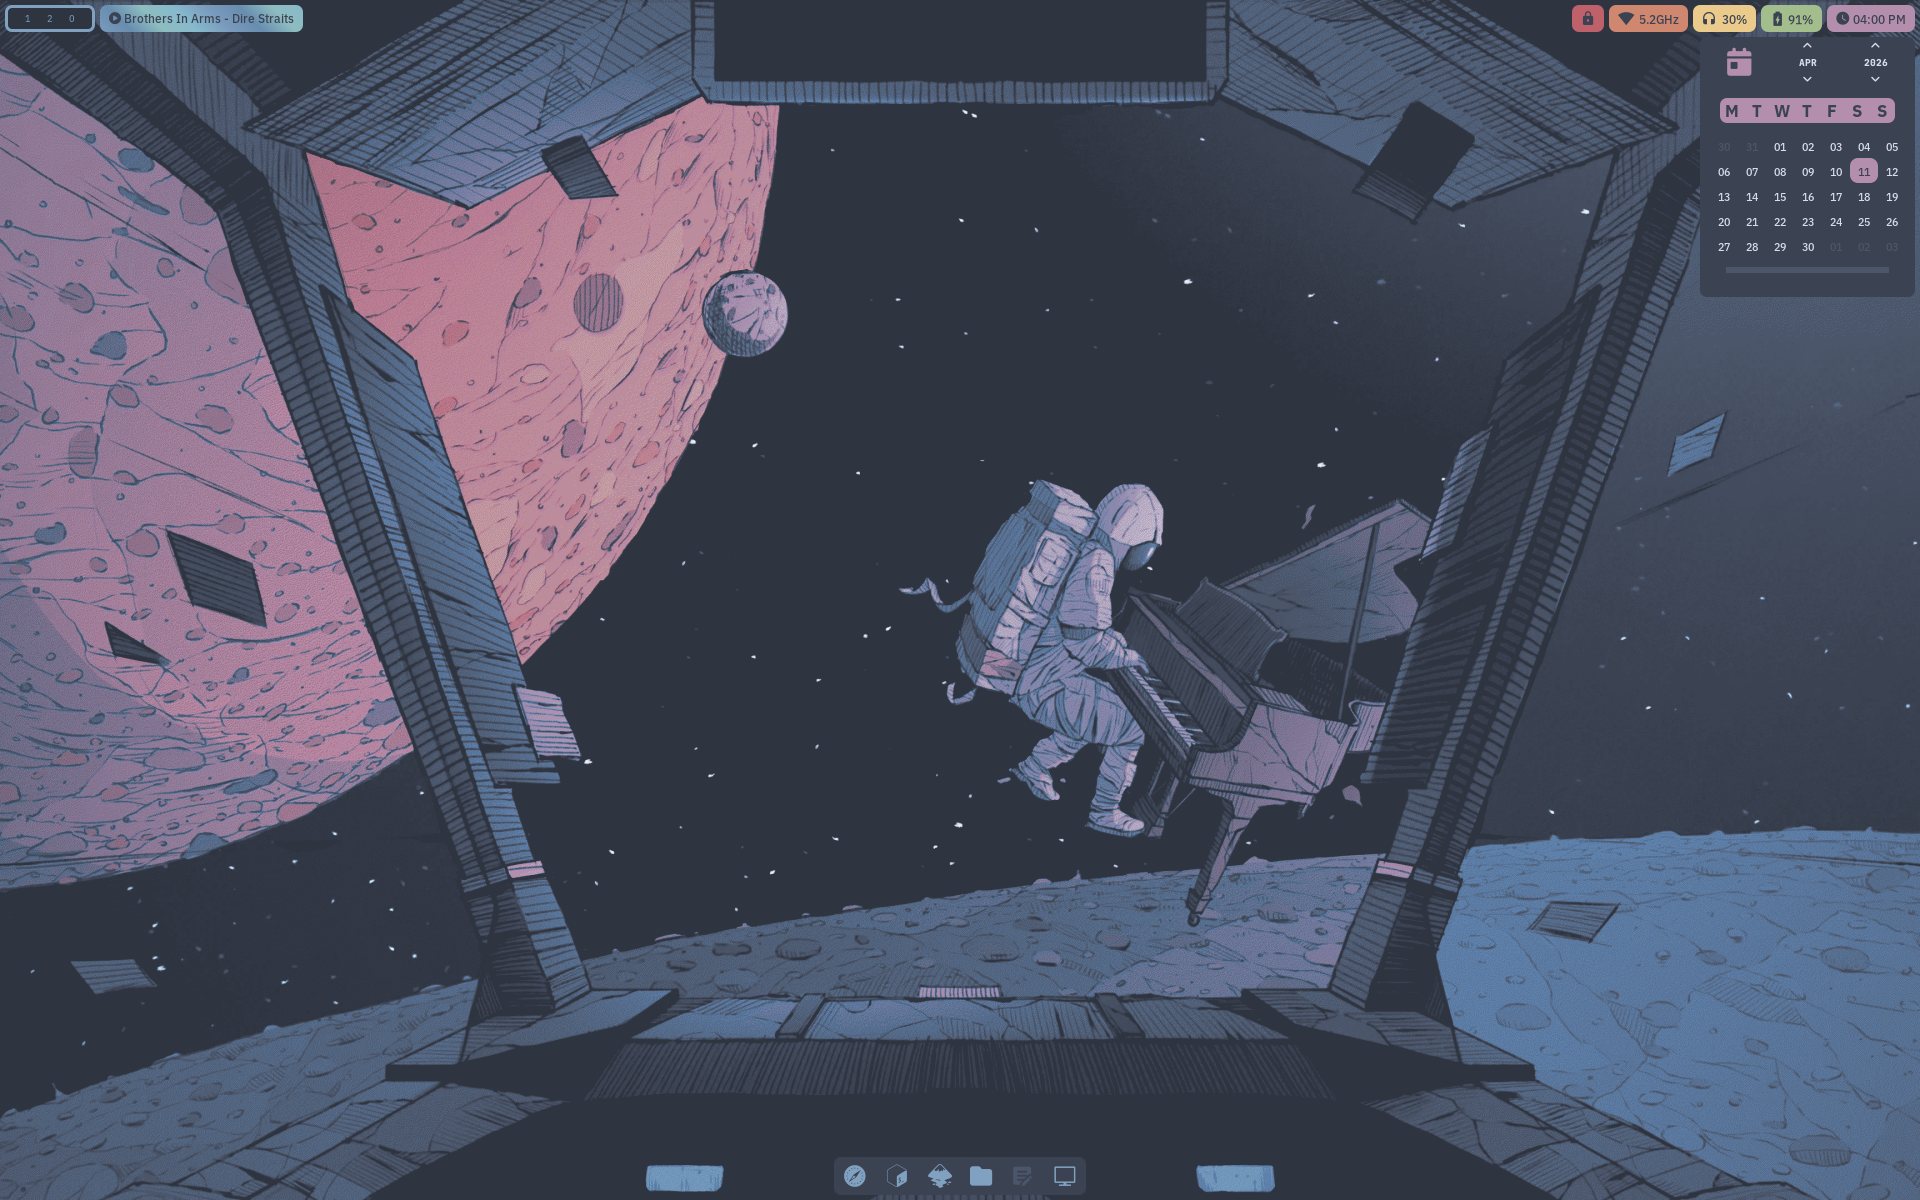
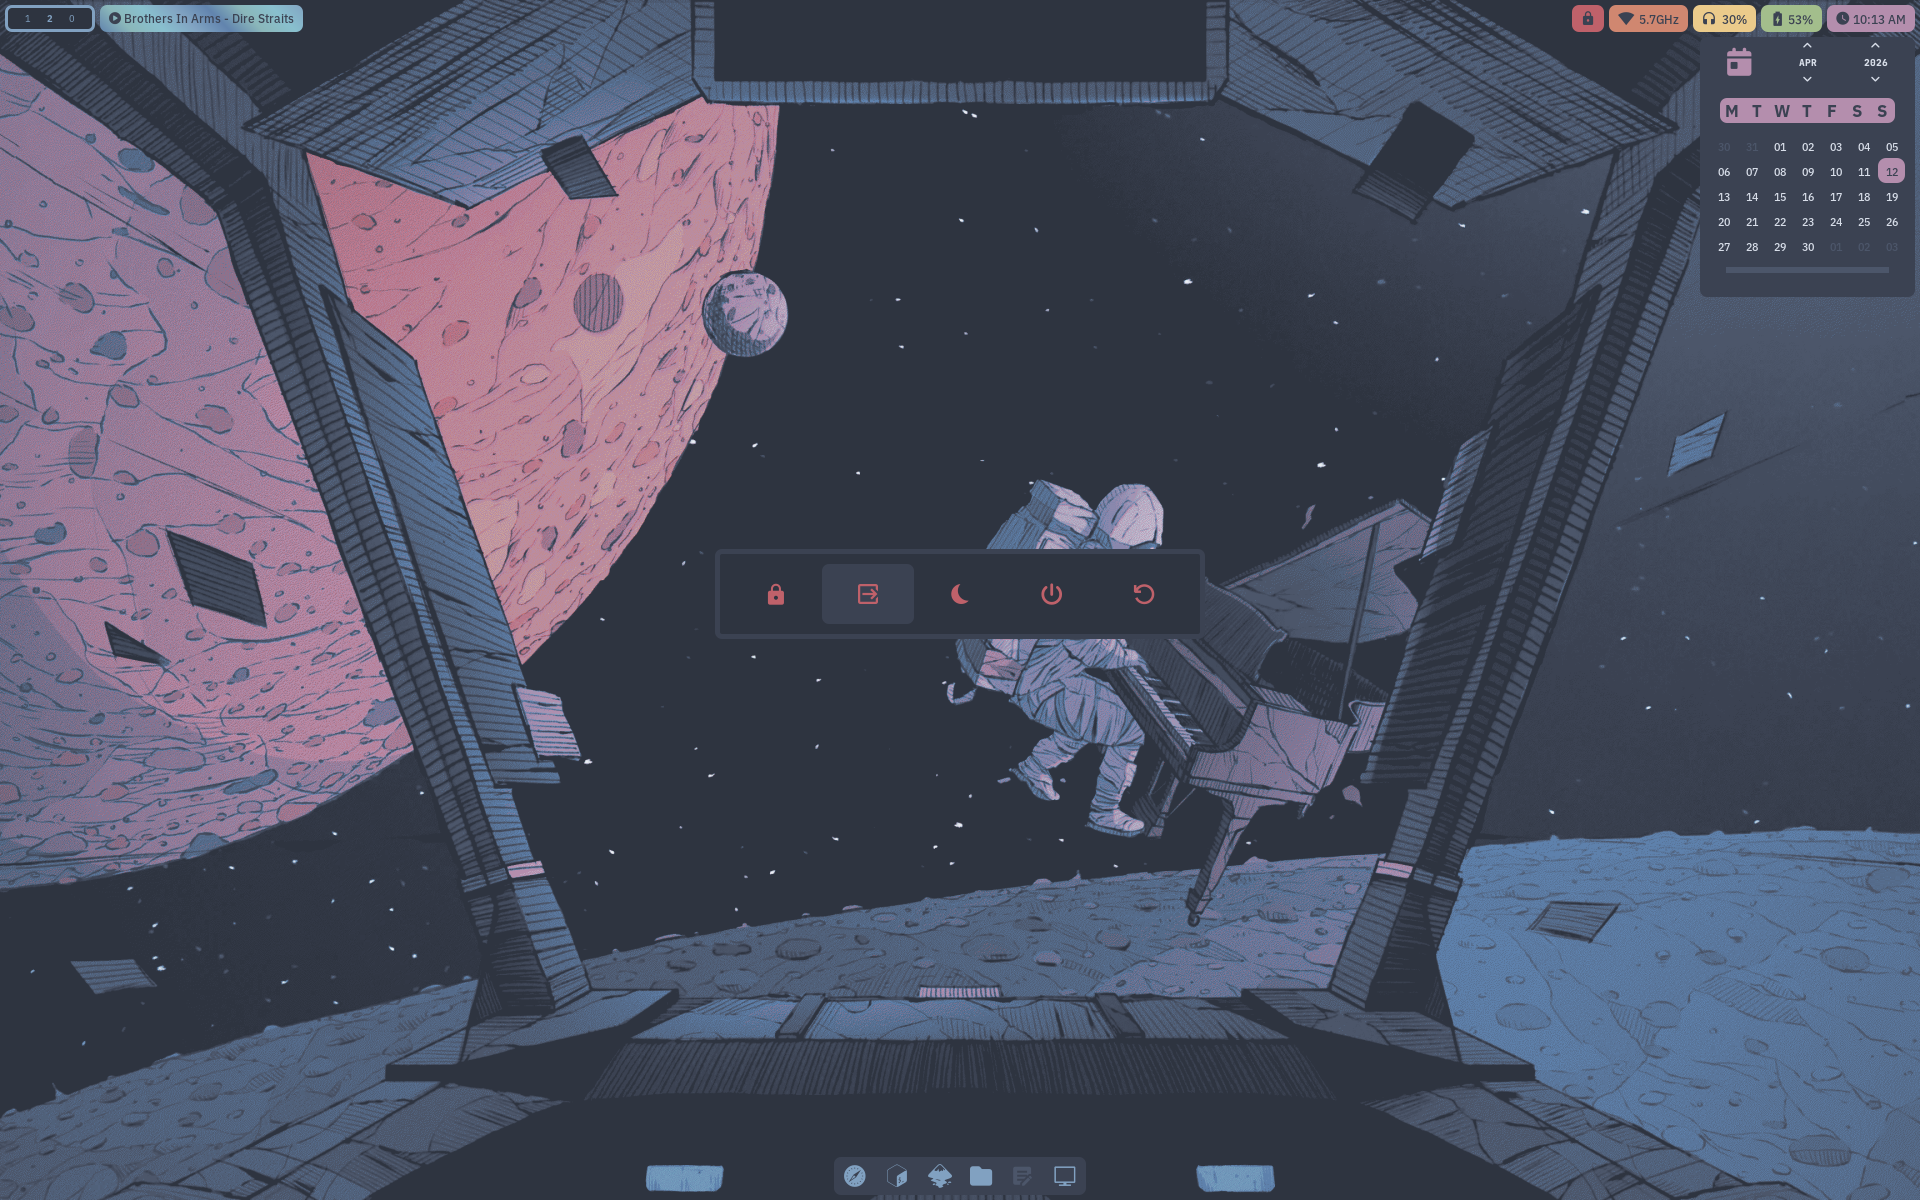
docs: update screenshots

diff --git a/doc/screenshots.md b/doc/screenshots.md
@@ -16,32 +16,24 @@ Screenshots from the Laptop role!
 
 ![laptop](./screenshots/laptop-04.png)
 
-> EWW calendar widget
+> EWW calendar widget and EWW leave widget
 
 ![laptop](./screenshots/laptop-05.png)
 
-> EWW leave widget
+> Thunar file manager
 
 ![laptop](./screenshots/laptop-06.png)
 
-> Thunar file manager
+> Solaris 2.6 CDE running in QEMU
 
 ![laptop](./screenshots/laptop-07.png)
 
-> Solaris 2.6 CDE running in QEMU
+> Inkscape vector graphics editor
 
 ![laptop](./screenshots/laptop-08.png)
 
-> Switching to a new configuration using the bespoke CLI
-
-![laptop](./screenshots/laptop-09.png)
-
-> Inkscape vector graphics editor
-
-![laptop](./screenshots/laptop-10.png)
-
 > Brave Browser and its homepage
 
-![laptop](./screenshots/laptop-11.png)
+![laptop](./screenshots/laptop-09.png)
 
 > Neovim text editor
